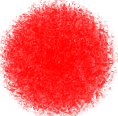
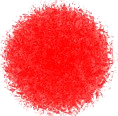
Add L1 background Fix paddle rightmost point Replace the ball image

diff --git a/src/paddle.js b/src/paddle.js
@@ -27,8 +27,8 @@ export default class Paddle {
     update(deltaTime) {
         if(!deltaTime) return;
         this.position.x += 50 / deltaTime * this.direction;
-        this.position.x = Math.max(0,this.position.x);
-        this.position.x = Math.min(600,this.position.x);
+        this.position.x = Math.max(0, this.position.x);
+        this.position.x = Math.min(800 - 150, this.position.x);
         console.log(this.direction);
     }
 }

diff --git a/index.html b/index.html
@@ -10,11 +10,16 @@
       #ball_img {
         display: none;
       }
+      #bg_img {
+        display:none;
+      }
     </style>
   </head>
 
   <body>
     <img id = "ball_img" src = "src/assets/ball.png">
+    <img id = "bg_img" src = "src/assets/bg_lvl1.png">
+
     <canvas id="gameScreen" width="800px" height="600px"></canvas>
     <div id="app"></div>
     <h1> Simple Javascript Game </h1>

diff --git a/src/index.js b/src/index.js
@@ -22,6 +22,7 @@ function gameLoop(timeStamp) {
     let deltaTime = timeStamp - lastTime;
     lastTime = timeStamp;
     ctx.clearRect(0, 0, GAME_WEIGHT, GAME_HEIGHT);
+    ctx.drawImage(document.getElementById("bg_img"), 0, 0, GAME_WEIGHT, GAME_HEIGHT);
     paddle.update(deltaTime);
     paddle.draw(ctx);
     ball.draw(ctx);
